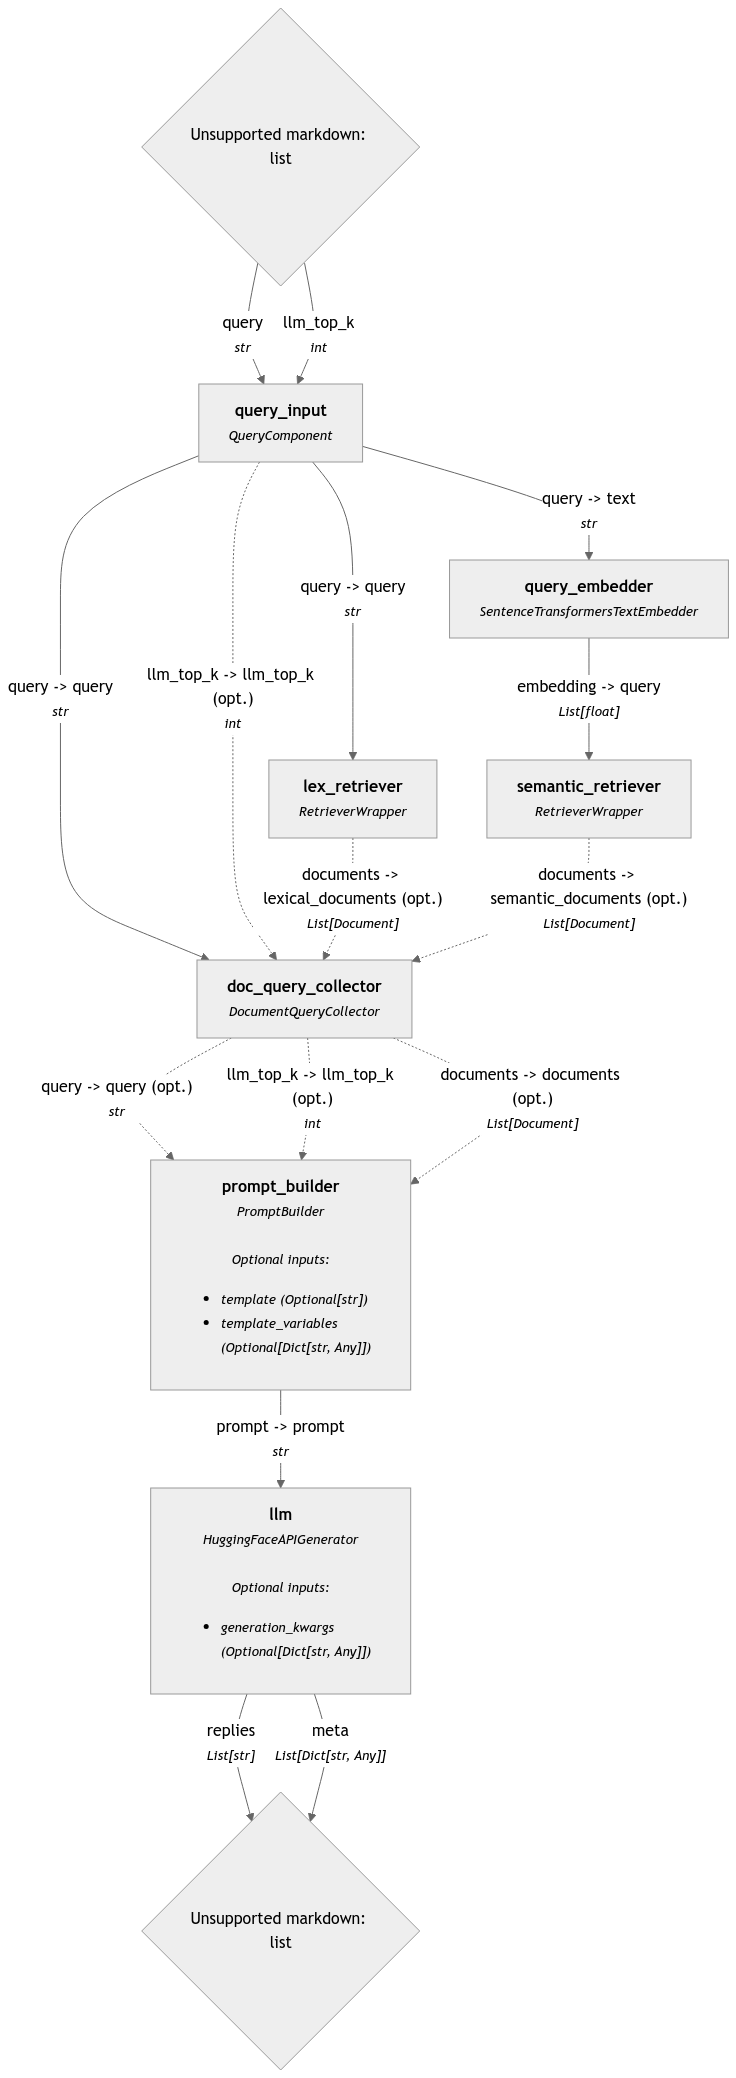
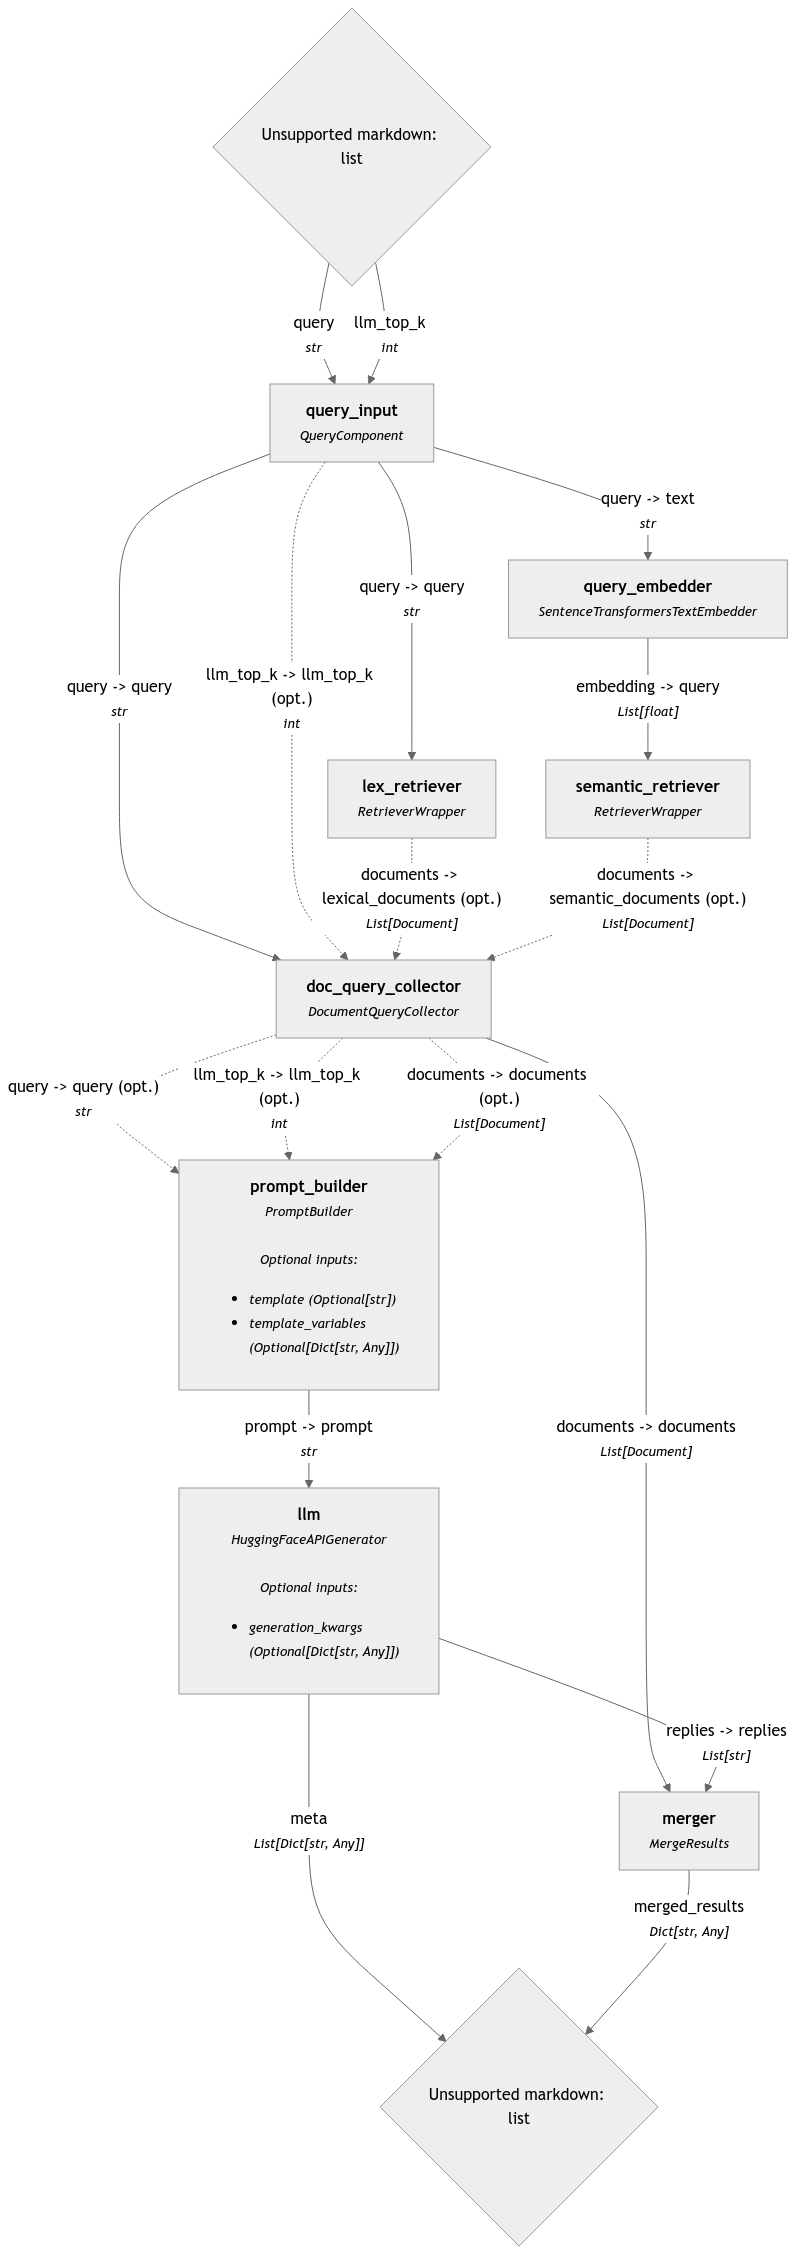
Added ability to stream doc collector instead of RetrieverWrapper. I don't really need RetrieverWrapper any more.

diff --git a/rag_pipeline.py b/rag_pipeline.py
@@ -37,6 +37,8 @@ class SearchMode(Enum):
 
 @component
 class DocumentQueryCollector:
+    def __init__(self, do_stream: bool = False) -> None:
+        self._do_stream: bool = do_stream
     """
     A simple component that takes a List of Documents from the DocumentJoiner
     as well as the query and llm_top_k from the QueryComponent and returns them in a dictionary
@@ -78,6 +80,10 @@ class DocumentQueryCollector:
             documents = semantic_documents
         elif lexical_documents is not None:
             documents = lexical_documents
+        if self._do_stream:
+            print()
+            print("Retrieved Documents:")
+            print_documents(documents)
         return {"documents": documents, "query": query, "llm_top_k": llm_top_k}
 
 
@@ -452,7 +458,7 @@ class RagPipeline:
         prompt_builder: PromptBuilder = PromptBuilder(template=self._prompt_template)
         rag_pipeline.add_component("prompt_builder", prompt_builder)
 
-        doc_checker: DocumentQueryCollector = DocumentQueryCollector()
+        doc_checker: DocumentQueryCollector = DocumentQueryCollector(do_stream=self._can_stream())
         rag_pipeline.add_component("doc_query_collector", doc_checker)
         rag_pipeline.connect("query_input.query", "doc_query_collector.query")
         rag_pipeline.connect("query_input.llm_top_k", "doc_query_collector.llm_top_k")
@@ -460,16 +466,14 @@ class RagPipeline:
         # Add the retriever component(s) depending on search mode
         if self._search_mode == SearchMode.LEXICAL or self._search_mode == SearchMode.HYBRID:
             lex_retriever: RetrieverWrapper = RetrieverWrapper(
-                PgvectorKeywordRetriever(document_store=self._document_store, top_k=self._retriever_top_k),
-                do_stream=self._can_stream())
+                PgvectorKeywordRetriever(document_store=self._document_store, top_k=self._retriever_top_k))
             rag_pipeline.add_component("lex_retriever", lex_retriever)
             rag_pipeline.connect("query_input.query", "lex_retriever.query")
             rag_pipeline.connect("lex_retriever.documents", "doc_query_collector.lexical_documents")
 
         if self._search_mode == SearchMode.SEMANTIC or self._search_mode == SearchMode.HYBRID:
             semantic_retriever: RetrieverWrapper = RetrieverWrapper(
-                PgvectorEmbeddingRetriever(document_store=self._document_store, top_k=self._retriever_top_k),
-                do_stream=self._can_stream())
+                PgvectorEmbeddingRetriever(document_store=self._document_store, top_k=self._retriever_top_k))
             rag_pipeline.add_component("semantic_retriever", semantic_retriever)
             rag_pipeline.connect("query_embedder.embedding", "semantic_retriever.query")
             rag_pipeline.connect("semantic_retriever.documents", "doc_query_collector.semantic_documents")
@@ -505,8 +509,9 @@ def main() -> None:
     # model: gen.GeneratorModel = gen.HuggingFaceLocalModel(password=hf_secret, model_name="google/gemma-1.1-2b-it")
     # model: gen.GeneratorModel = gen.GoogleGeminiModel(password=google_secret)
     model: gen.GeneratorModel = gen.HuggingFaceAPIModel(password=hf_secret, model_name="HuggingFaceH4/zephyr-7b-alpha")  # noqa: E501
-    # Possible outputs to include in the debug results: "lex_retriever", "semantic_retriever", "prompt_builder"
-    include_outputs_from: set[str] = {"joiner", "llm", "prompt_builder", "doc_query_collector"}
+    # Possible outputs to include in the debug results: "lex_retriever", "semantic_retriever", "prompt_builder",
+    # "joiner", "llm", "prompt_builder", "doc_query_collector"
+    include_outputs_from: Optional[set[str]] = None
     rag_processor: RagPipeline = RagPipeline(table_name="popper_archive",
                                              generator_model=model,
                                              postgres_user_name='postgres',
@@ -515,7 +520,7 @@ def main() -> None:
                                              postgres_port=5432,
                                              postgres_db_name='postgres',
                                              use_streaming=True,
-                                             verbose=True,
+                                             verbose=False,
                                              llm_top_k=5,
                                              retriever_top_k_docs=None,
                                              include_outputs_from=include_outputs_from,
